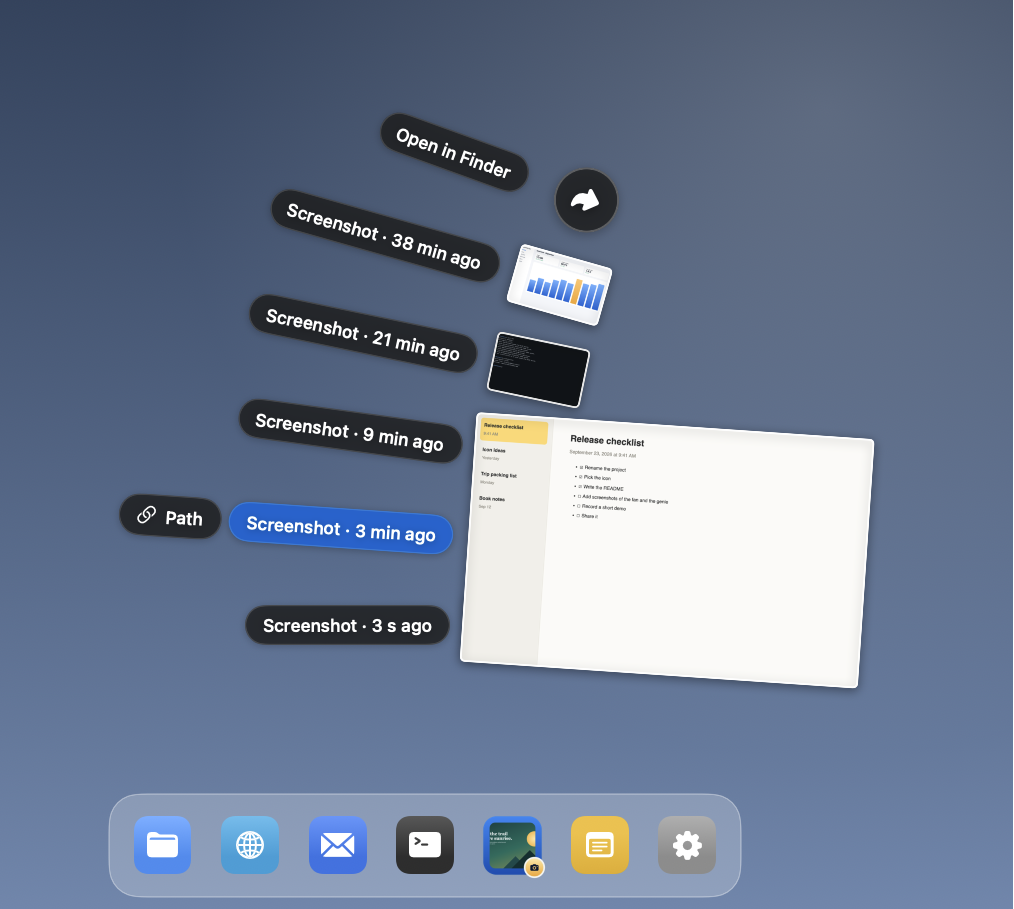
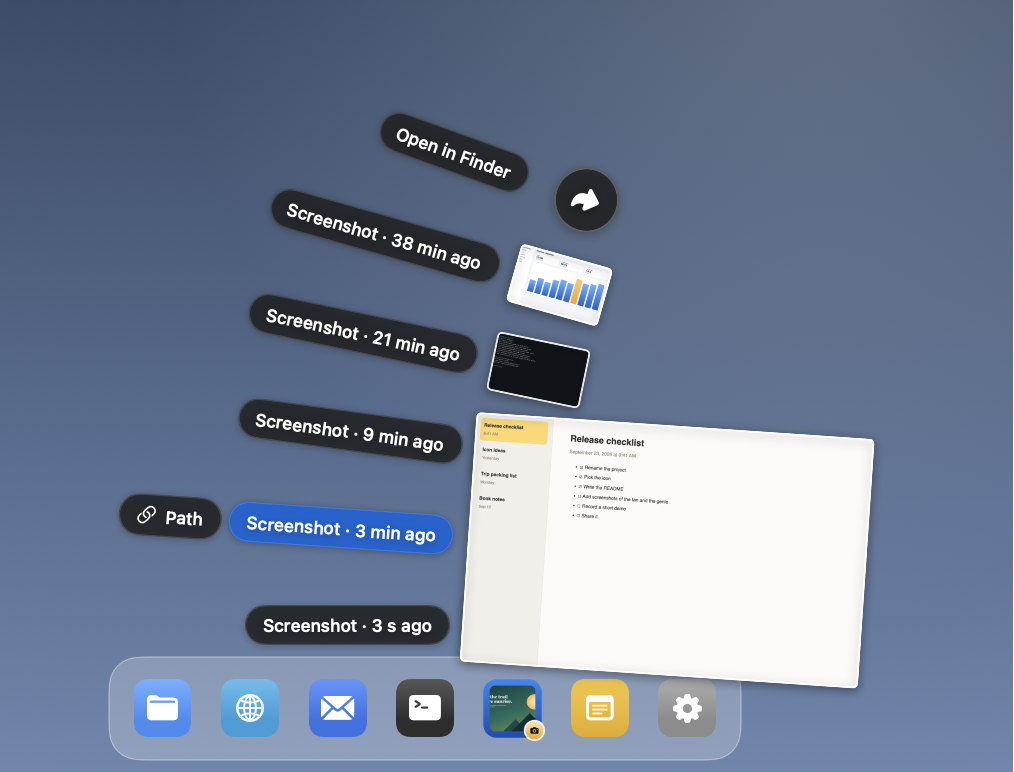
Demo del README completa: genio, clic en el icono, abanico, lupa siguiendo al cursor y copia

Changed region(s): [[0.0917, 0.1244, 0.8866, 0.9948], [0.7032, 0.9637, 0.7337, 0.9948]]

diff --git a/Sources/ShotGenie/DocsRenderer.swift b/Sources/ShotGenie/DocsRenderer.swift
@@ -30,7 +30,7 @@ enum DocsRenderer {
         let m = Settings.magnification
         let fan = CGSize(width: FanLayout.width(rows: rows, magnification: m), height: FanLayout.height(rows: rows, magnification: m))
         let dock = DockLayout(width: scene.width, height: max(scene.height, fan.height + 140))
-        let fanOrigin = CGPoint(x: dock.targetCenter.x - FanLayout.anchorX, y: dock.barY - 6 - fan.height)
+        let fanOrigin = fanTopLeft(dock: dock, fan: fan, magnification: m)
         // Recorte: el abanico y el Dock, con margen.
         let crop = CGRect(x: min(fanOrigin.x, dock.barX) - 40, y: fanOrigin.y - 30, width: 0, height: 0)
         let cropSize = CGSize(width: max(fanOrigin.x + fan.width, dock.barX + dock.barWidth) + 40 - crop.minX,
@@ -44,12 +44,6 @@ enum DocsRenderer {
         .frame(width: cropSize.width, height: cropSize.height, alignment: .topLeading)
         .clipped(), scale: 1.25, to: output.appendingPathComponent("fan.png"))
 
-        // 2b. Abanico con la imagen creciendo a la izquierda (icono cerca del borde derecho); no va al README
-        save(FanView(store: store, onCopy: { _, _ in }, onOpenFolder: {}, onDismiss: {}, initialHover: 1, growsLeft: true)
-                .frame(width: fan.width, height: fan.height)
-                .background(Color(white: 0.3)),
-             scale: 1, to: output.appendingPathComponent("fan-left.png"))
-
         // 3. Fotogramas del genio (la captura más nueva entra en el icono)
         guard let image = Thumbnailer.thumbnail(for: newest.url, maxPixel: 1200),
               let pixels = Thumbnailer.pixelSize(of: newest.url) else { return }
@@ -61,21 +55,83 @@ enum DocsRenderer {
         try? FileManager.default.removeItem(at: frames)
         try? FileManager.default.createDirectory(at: frames, withIntermediateDirectories: true)
         let fps = 20.0
-        let genieCount = Int(Genie.duration * fps)
         var n = 0
-        func frame(_ icon: NSImage, progress: Double?) {
-            let view = Desktop(dock: desk, icon: icon) {
-                if let progress {
-                    GenieFrame(image: image, rect: rect, target: target, progress: progress)
+
+        // Demo completa: genio → clic en el icono → abanico → lupa siguiendo al cursor → copiar.
+        let deskFan = fanTopLeft(dock: desk, fan: fan, magnification: m)
+        let iconC = desk.targetCenter
+        func thumbCenter(_ k: Int) -> CGPoint {
+            CGPoint(x: deskFan.x + FanLayout.anchorX + FanLayout.placement(row: k).dx,
+                    y: deskFan.y + FanLayout.centerY(row: k, height: fan.height, magnification: m))
+        }
+        var scales = [CGFloat](repeating: 1, count: caps.count)
+        var hovered: Int?
+
+        func frame(_ icon: NSImage, genie: Double? = nil, fanOpen: Bool = false, cursor: CGPoint? = nil,
+                   pressed: Bool = false, copied: URL? = nil) {
+            // La lupa se acerca a su tamaño poco a poco, como el muelle de la app.
+            for k in scales.indices {
+                let goal: CGFloat = fanOpen && hovered == k ? m : 1
+                scales[k] += (goal - scales[k]) * 0.5
+            }
+            let view = Desktop(dock: desk, icon: icon, pressed: pressed) {
+                if let genie {
+                    GenieFrame(image: image, rect: rect, target: target, progress: genie)
                         .frame(width: scene.width, height: scene.height)
                 }
+                if fanOpen {
+                    FanView(store: store, onCopy: { _, _ in }, onOpenFolder: {}, onDismiss: {},
+                            initialHover: hovered, magnification: m, rowScales: scales, initialCopied: copied)
+                        .frame(width: fan.width, height: fan.height)
+                        .offset(x: deskFan.x, y: deskFan.y)
+                }
+                if let cursor { Cursor().offset(x: cursor.x, y: cursor.y) }
             }
-            save(view, scale: 0.75, to: frames.appendingPathComponent(String(format: "%03d.png", n)))
+            // Recorte sin el escritorio vacío de los lados, para que el abanico se lea en el README.
+            let crop = CGRect(x: 230, y: 110, width: 940, height: scene.height - 110)
+            save(view.offset(x: -crop.minX, y: -crop.minY)
+                     .frame(width: crop.width, height: crop.height, alignment: .topLeading)
+                     .clipped(),
+                 scale: 0.85, to: frames.appendingPathComponent(String(format: "%03d.png", n)))
             n += 1
         }
-        for _ in 0..<8 { frame(iconOld, progress: nil) }
-        for i in 0...genieCount { frame(iconOld, progress: Double(i) / Double(genieCount)) }
-        for _ in 0..<24 { frame(iconNew, progress: nil) }
+        func ease(_ t: Double) -> CGFloat { CGFloat(t < 0.5 ? 2 * t * t : 1 - pow(-2 * t + 2, 2) / 2) }
+        func move(from a: CGPoint, to b: CGPoint, frames count: Int, icon: NSImage, fanOpen: Bool) {
+            for i in 1...count {
+                let t = ease(Double(i) / Double(count))
+                let p = CGPoint(x: a.x + (b.x - a.x) * t, y: a.y + (b.y - a.y) * t)
+                if fanOpen {
+                    hovered = FanLayout.index(forY: p.y - deskFan.y, height: fan.height, count: caps.count, magnification: m)
+                }
+                frame(icon, fanOpen: fanOpen, cursor: p)
+            }
+        }
+
+        // 1. La captura entra en el icono.
+        for _ in 0..<6 { frame(iconOld) }
+        let genieCount = Int(Genie.duration * fps)
+        for i in 0...genieCount { frame(iconOld, genie: Double(i) / Double(genieCount)) }
+        for _ in 0..<10 { frame(iconNew) }
+        // 2. El cursor va al icono y hace clic.
+        let start = CGPoint(x: scene.width * 0.3, y: scene.height * 0.45)
+        move(from: start, to: iconC, frames: 16, icon: iconNew, fanOpen: false)
+        for _ in 0..<3 { frame(iconNew, cursor: iconC, pressed: true) }
+        // 3. Sale el abanico y el cursor sube por las capturas; la lupa sigue al cursor.
+        for _ in 0..<6 { frame(iconNew, fanOpen: true, cursor: iconC) }
+        var at = iconC
+        for k in 0..<min(3, caps.count) {
+            let target = thumbCenter(k)
+            move(from: at, to: target, frames: 8, icon: iconNew, fanOpen: true)
+            for _ in 0..<12 { frame(iconNew, fanOpen: true, cursor: target) }
+            at = target
+        }
+        // 4. Clic en la ampliada: se copia, el icono se pone verde y el abanico se cierra.
+        let chosen = caps[min(2, caps.count - 1)].url
+        for _ in 0..<14 { frame(iconCopied, fanOpen: true, cursor: at, copied: chosen) }
+        hovered = nil
+        for _ in 0..<24 { frame(iconCopied, cursor: at) }
+        for _ in 0..<10 { frame(iconNew, cursor: at) }
+
         // 4. Ajustes (vista real de la app, en una ventana que no se muestra)
         let host = NSHostingView(rootView: SettingsView(store: store).background(Color(nsColor: .windowBackgroundColor)))
         host.appearance = NSAppearance(named: .darkAqua)
@@ -85,7 +141,15 @@ enum DocsRenderer {
             host.cacheDisplay(in: host.bounds, to: rep)
             try? rep.representation(using: .png, properties: [:])?.write(to: output.appendingPathComponent("settings.png"))
         }
-        print("imágenes en \(output.path) (\(n) fotogramas del genio)")
+        print("imágenes en \(output.path) (\(n) fotogramas de la demo)")
+    }
+
+    /// Esquina superior izquierda del abanico en la escena (y hacia abajo), como lo coloca la app:
+    /// miniaturas centradas en el icono y la fila de abajo `FanPlacement.gap` sobre él.
+    private static func fanTopLeft(dock: DockLayout, fan: CGSize, magnification m: CGFloat) -> CGPoint {
+        let iconTop = dock.targetCenter.y - DockLayout.tile / 2
+        let bottom = iconTop - FanPlacement.gap + FanLayout.overflow(magnification: m)
+        return CGPoint(x: dock.targetCenter.x - FanLayout.anchorX, y: bottom - fan.height)
     }
 
     private static func save(_ view: some View, scale: CGFloat, to url: URL) {
@@ -115,6 +179,7 @@ struct DockLayout {
 private struct Desktop<Overlay: View>: View {
     let dock: DockLayout
     let icon: NSImage
+    var pressed = false
     @ViewBuilder let overlay: () -> Overlay
 
     static var apps: [(String, Color)] {
@@ -139,7 +204,7 @@ private struct Desktop<Overlay: View>: View {
                 let c = dock.center(i)
                 Group {
                     if i == DockLayout.target {
-                        Crisp(image: icon, side: DockLayout.tile)
+                        Crisp(image: icon, side: DockLayout.tile).brightness(pressed ? -0.3 : 0)
                     } else {
                         RoundedRectangle(cornerRadius: 11)
                             .fill(Self.apps[i].1.gradient)
@@ -184,5 +249,24 @@ private struct Crisp: View {
         } else {
             Image(nsImage: image).resizable().frame(width: side, height: side)
         }
+    }
+}
+
+/// La flecha del cursor de macOS (negra con borde blanco); su punta está en (0, 0).
+private struct Cursor: View {
+    var body: some View {
+        let arrow = Path { p in
+            p.move(to: .zero)
+            p.addLine(to: CGPoint(x: 0, y: 22)); p.addLine(to: CGPoint(x: 5.5, y: 17))
+            p.addLine(to: CGPoint(x: 9, y: 25)); p.addLine(to: CGPoint(x: 12.5, y: 23.5))
+            p.addLine(to: CGPoint(x: 9, y: 16)); p.addLine(to: CGPoint(x: 16, y: 16))
+            p.closeSubpath()
+        }
+        ZStack(alignment: .topLeading) {
+            arrow.fill(.black)
+            arrow.stroke(.white, style: StrokeStyle(lineWidth: 1.6, lineJoin: .round))
+        }
+        .frame(width: 18, height: 27, alignment: .topLeading)
+        .shadow(color: .black.opacity(0.35), radius: 2, y: 1)
     }
 }

diff --git a/Sources/ShotGenie/FanView.swift b/Sources/ShotGenie/FanView.swift
@@ -16,10 +16,16 @@ struct FanView: View {
     private let magnification: CGFloat
     /// La imagen ampliada crece hacia la izquierda (el icono está cerca del borde derecho).
     private let growsLeft: Bool
+    /// Solo para la demo del README: ampliación de cada fila en este fotograma (la animación real
+    /// la hace SwiftUI con el cursor).
+    private let rowScales: [CGFloat]?
 
     init(store: CaptureStore, onCopy: @escaping (Capture, CopyKind) -> Void, onOpenFolder: @escaping () -> Void,
-         onDismiss: @escaping () -> Void, initialHover: Int? = nil, magnification: CGFloat = Settings.magnification, growsLeft: Bool = false) {
+         onDismiss: @escaping () -> Void, initialHover: Int? = nil, magnification: CGFloat = Settings.magnification, growsLeft: Bool = false,
+         rowScales: [CGFloat]? = nil, initialCopied: URL? = nil) {
         self.store = store
+        self.rowScales = rowScales
+        _copied = State(initialValue: initialCopied.map { ($0, CopyKind.image) })
         self.magnification = magnification
         self.growsLeft = growsLeft
         self.onCopy = onCopy
@@ -95,7 +101,7 @@ struct FanView: View {
 
             // La ampliación cambia el tamaño real (no un scaleEffect), para que el clic
             // funcione en toda la imagen ampliada y no solo en su hueco original.
-            let scale = active ? magnification : 1
+            let scale = rowScales.map { k < $0.count ? $0[k] : 1 } ?? (active ? magnification : 1)
             Button { copy(capture, .image) } label: {
                 thumbnail(capture)
                     .frame(width: FanLayout.thumb.width * scale, height: FanLayout.thumb.height * scale)

diff --git a/README.md b/README.md
@@ -6,7 +6,9 @@ A macOS Dock app for your latest screenshots. Take a screenshot with ⌘⇧4 as 
 
 It was built to stop hunting through Finder for the screenshot you just took so you can paste it into Claude Code.
 
-<p align="center"><img src="docs/genie.gif" width="720" alt="A screenshot genies into the ShotGenie icon in the Dock"></p>
+<p align="center"><img src="docs/genie.gif" width="720" alt="A screenshot genies into the ShotGenie icon; a click on the icon opens the fan, the magnifier follows the cursor, and a click copies the image"></p>
+
+<p align="center"><sub>The screenshot genies into the icon → click the icon → the fan opens and the magnifier follows the cursor → click to copy the image.</sub></p>
 
 ## What it does
 
